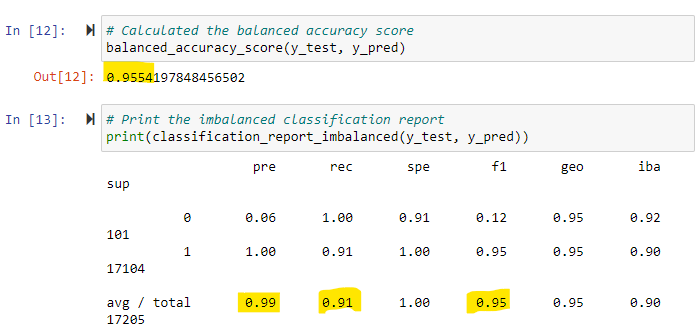
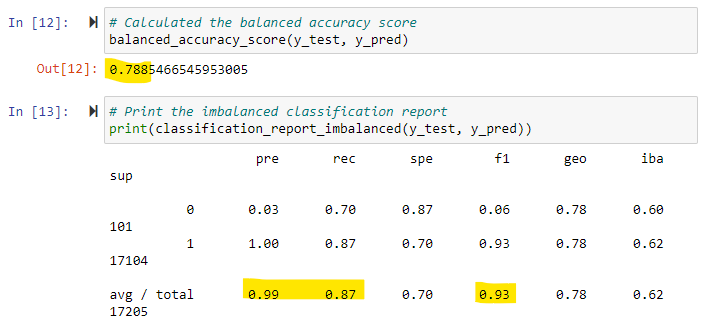
finished readme

diff --git a/README.md b/README.md
@@ -21,11 +21,11 @@ The purpose of this analysis is to create models that predict low_risk versus hi
 
 ![](images/SMOTEENN.png)
 
- - Balanced Random Forest Classifer: Balanced_accuracy_score = .955, Precision = .99, Recall = .91
+ - Balanced Random Forest Classifer: Balanced_accuracy_score = .789, Precision = .99, Recall = .87
 
 ![](images/brfc.png)
 
- - Easy Ensemble AdaBoost Classifer: Balanced_accuracy_score = .955, Precision = .99, Recall = .91
+ - Easy Ensemble AdaBoost Classifer: Balanced_accuracy_score = .915, Precision = .99, Recall = .90
 
 ![](images/ensemble.png)
 
